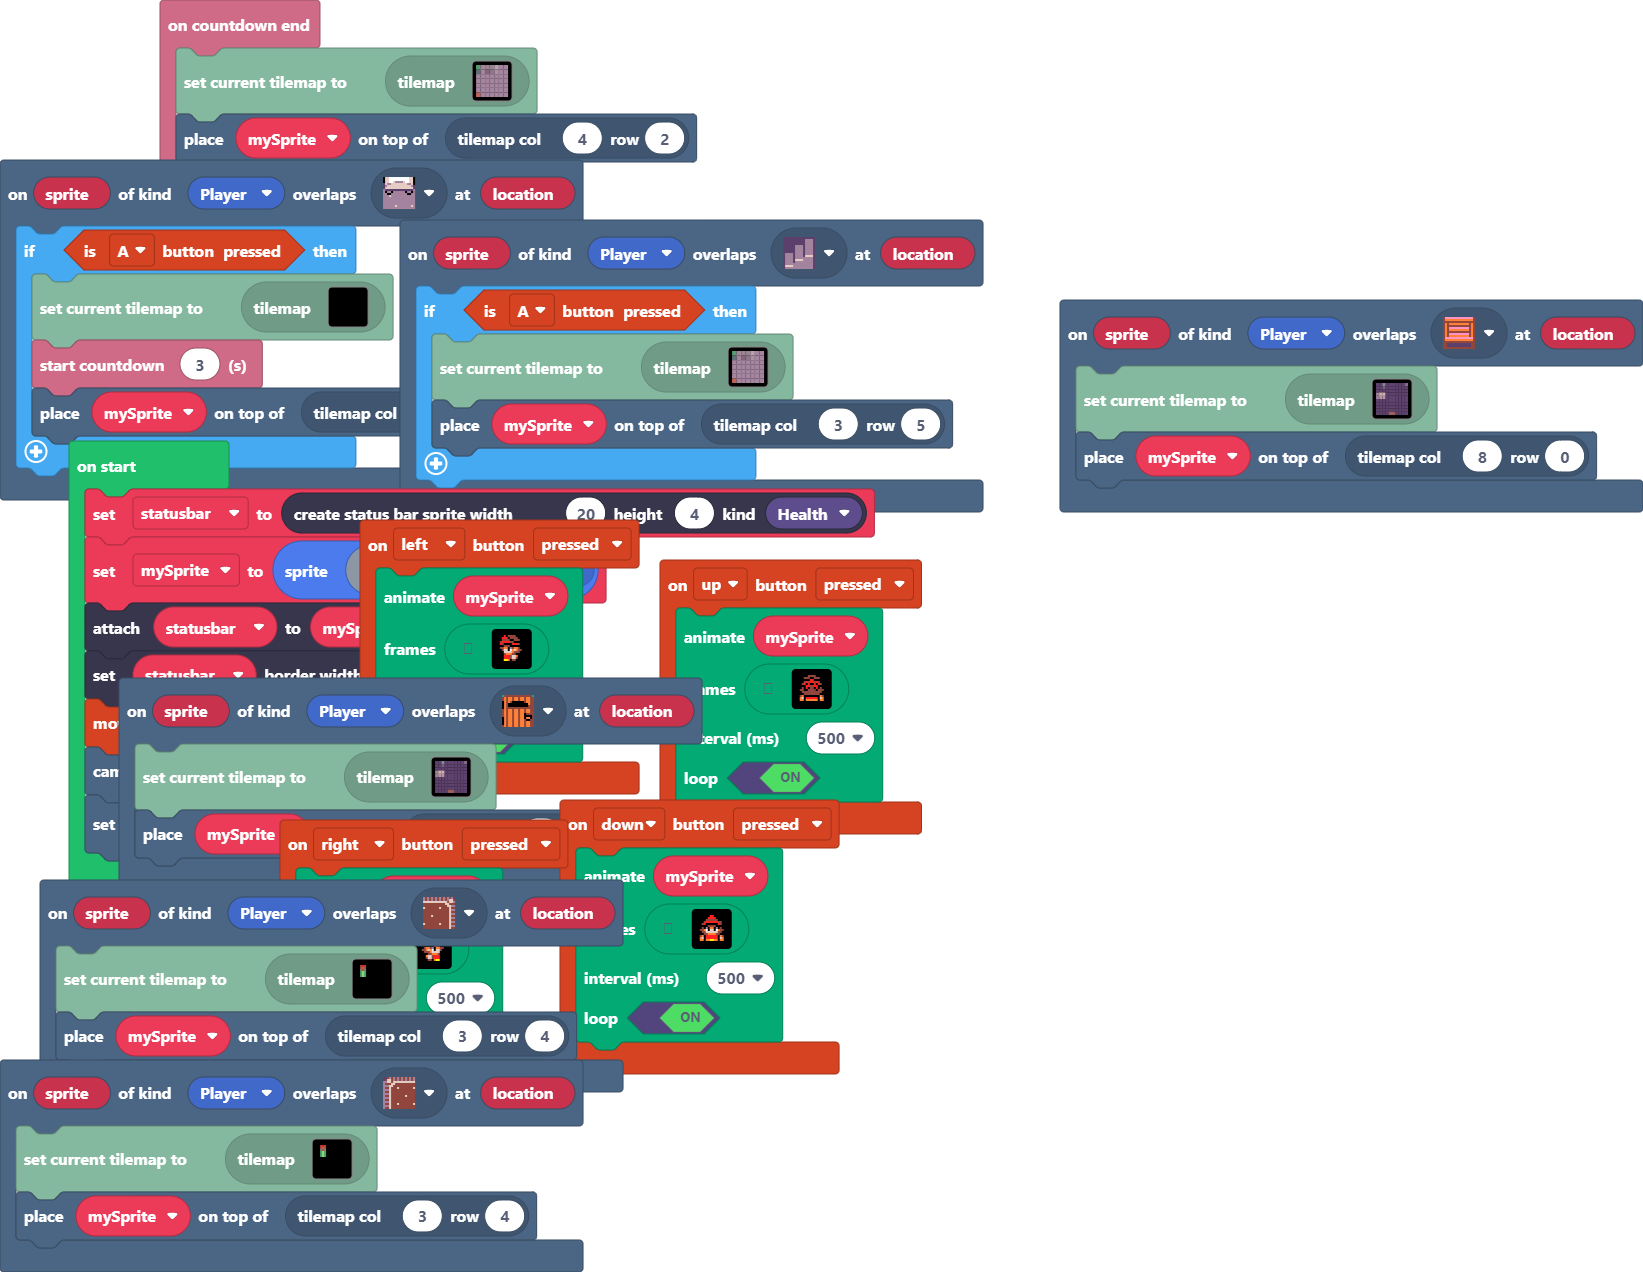
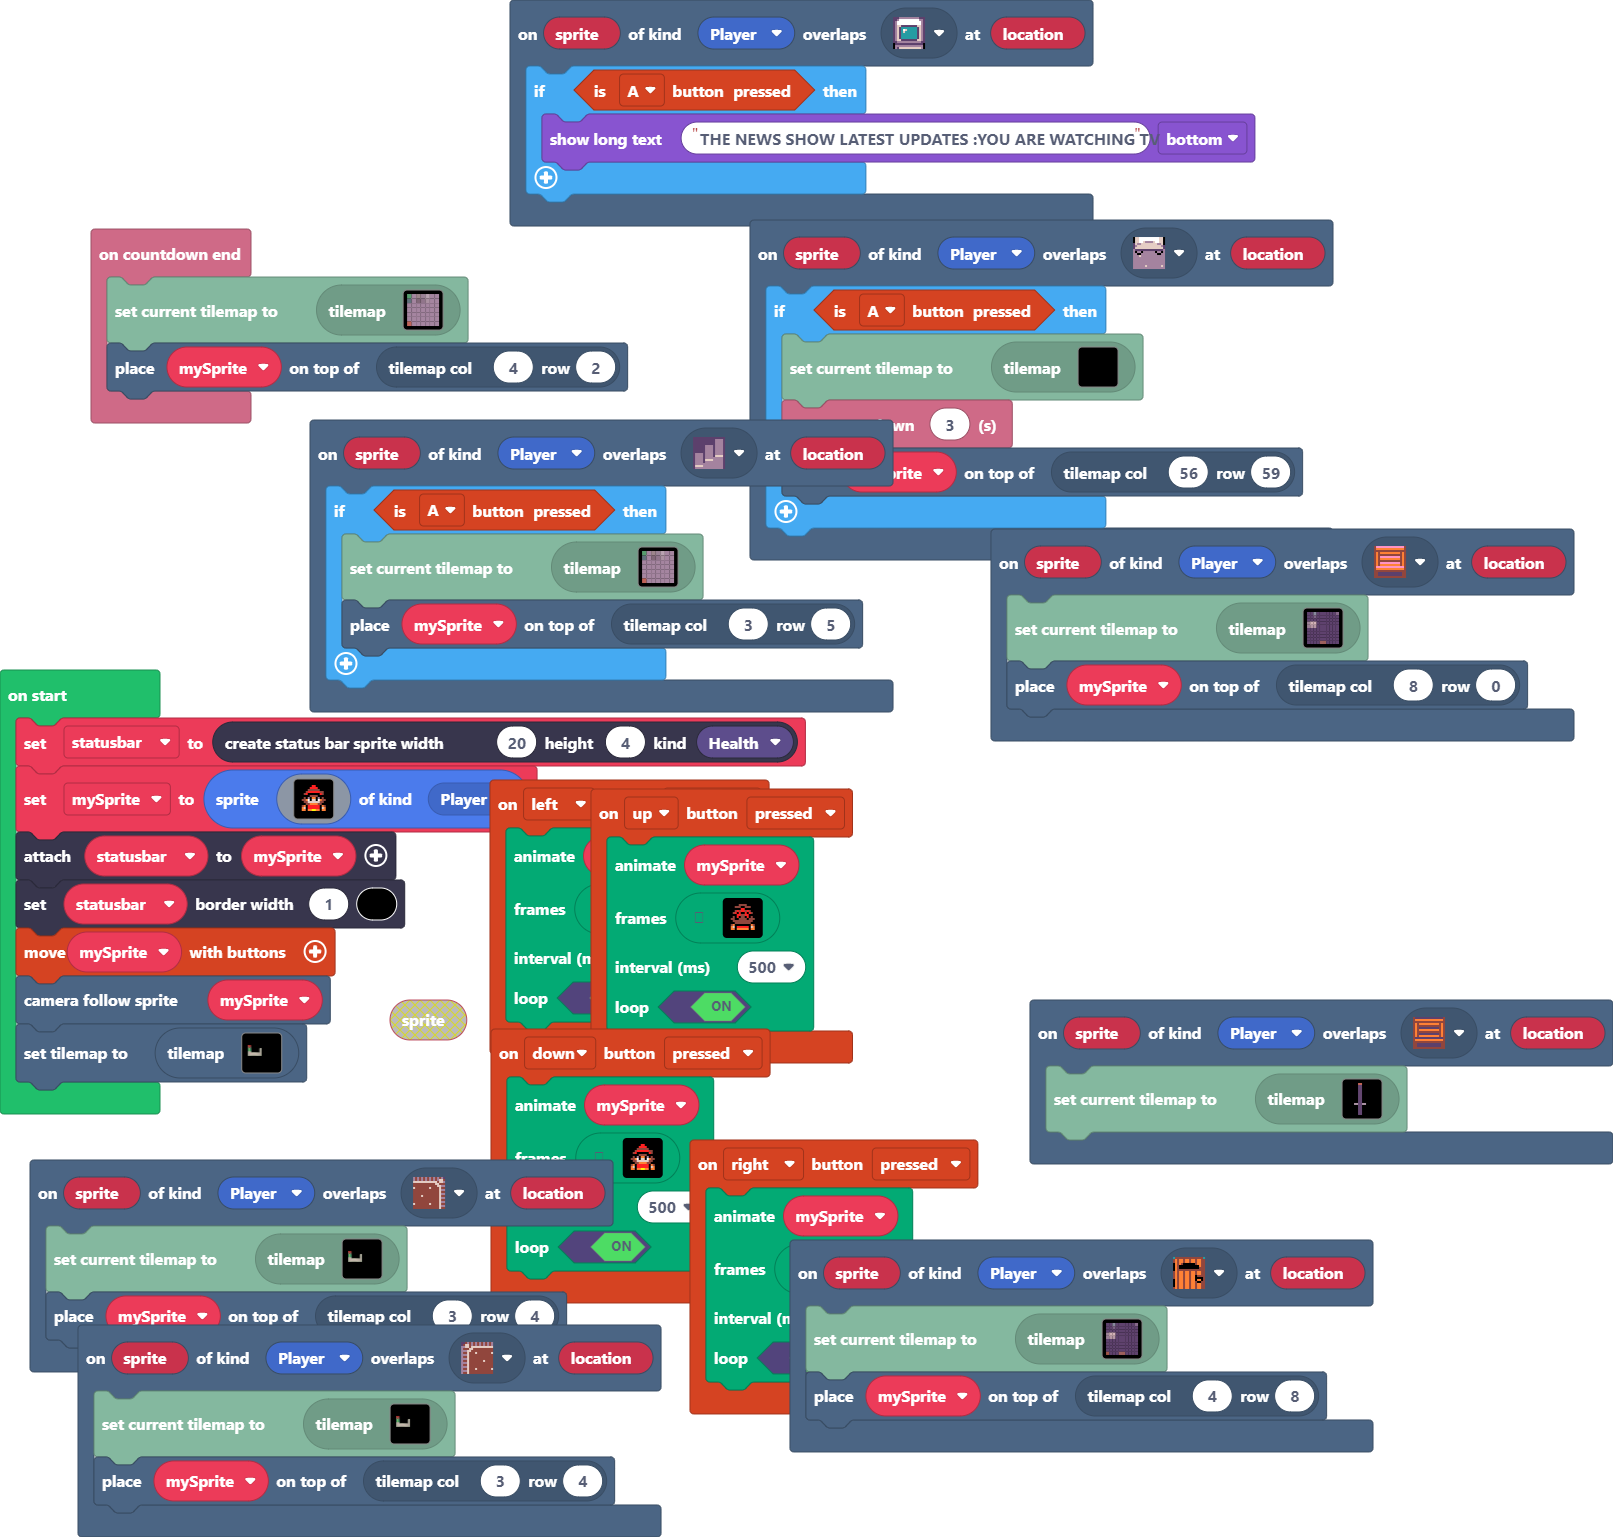
Update main.blocks, main.ts, tilemap.g.jres, tilemap.g.ts

diff --git a/tilemap.g.ts b/tilemap.g.ts
@@ -96,6 +96,24 @@ namespace myTiles {
     export const tile42 = image.ofBuffer(hex``);
     //% fixedInstance jres blockIdentity=images._tile
     export const tile46 = image.ofBuffer(hex``);
+    //% fixedInstance jres blockIdentity=images._tile
+    export const tile48 = image.ofBuffer(hex``);
+    //% fixedInstance jres blockIdentity=images._tile
+    export const tile49 = image.ofBuffer(hex``);
+    //% fixedInstance jres blockIdentity=images._tile
+    export const tile50 = image.ofBuffer(hex``);
+    //% fixedInstance jres blockIdentity=images._tile
+    export const tile51 = image.ofBuffer(hex``);
+    //% fixedInstance jres blockIdentity=images._tile
+    export const tile52 = image.ofBuffer(hex``);
+    //% fixedInstance jres blockIdentity=images._tile
+    export const tile53 = image.ofBuffer(hex``);
+    //% fixedInstance jres blockIdentity=images._tile
+    export const tile55 = image.ofBuffer(hex``);
+    //% fixedInstance jres blockIdentity=images._tile
+    export const tile54 = image.ofBuffer(hex``);
+    //% fixedInstance jres blockIdentity=images._tile
+    export const tile56 = image.ofBuffer(hex``);
 
     helpers._registerFactory("tilemap", function(name: string) {
         switch(helpers.stringTrim(name)) {
@@ -118,25 +136,6 @@ namespace myTiles {
 . . . . . . . . . . . . . . . . 
 . . . . . . . . . . . . . . . . 
 `, [myTiles.transparency16], TileScale.Sixteen);
-            case "level4":
[1 lines of base64/hex data omitted]
-. . . . . . . . . . . . . . . . 
-. . 2 2 2 . . . . . . . . . . . 
-. . 2 2 2 . . . . . . . . . . . 
-. . 2 . 2 . . . . . . . . . . . 
-. . 2 . 2 . . . . . . . . . . . 
-. . 2 . 2 . . . . . . . . . . . 
-. . 2 . 2 . . . . . . . . . . . 
-. . . . . . . . . . . . . . . . 
-. . . . . . . . . . . . . . . . 
-. . . . . . . . . . . . . . . . 
-. . . . . . . . . . . . . . . . 
-. . . . . . . . . . . . . . . . 
-. . . . . . . . . . . . . . . . 
-. . . . . . . . . . . . . . . . 
-. . . . . . . . . . . . . . . . 
-. . . . . . . . . . . . . . . . 
-`, [myTiles.transparency16,myTiles.tile1,myTiles.tile2,myTiles.tile3,myTiles.tile5,myTiles.tile7,myTiles.tile8,myTiles.tile13,myTiles.tile14,myTiles.tile15,myTiles.tile6,sprites.castle.tileGrass2], TileScale.Sixteen);
             case "level5":
             case "level5":return tiles.createTilemap(hex`1000100000000000000000000000000000000000000000000000000000000000000000000000000000000000000000000000000000000000000000000000000000000000000000000000000000000000000000000000000000000000000000000000000000000000000000000000000000000000000000000000000000000000000000000000000000000000000000000000000000000000000000000000000000000000000000000000000000000000000000000000000000000000000000000000000000000000000000000000000000000000000000000000000000000000000000000000000000000000000000000000000000000000000000000000000000000000`, img`
 . . . . . . . . . . . . . . . . 
@@ -156,19 +155,6 @@ namespace myTiles {
 . . . . . . . . . . . . . . . . 
 . . . . . . . . . . . . . . . . 
 `, [myTiles.transparency16], TileScale.Sixteen);
-            case "level3":
[1 lines of base64/hex data omitted]
-. . . . . . . . . . 
-. . . . . . . . . . 
-. . . . . . . . . . 
-. 2 2 . . . . . . . 
-. 2 2 . . . . . . . 
-. . . . . . . . . . 
-. . . . . . . . . . 
-. . . . . . . . . . 
-. . . . . . . . . . 
-. . . . . . . . . . 
-`, [myTiles.transparency16,myTiles.tile17,myTiles.tile20,myTiles.tile23,myTiles.tile21,myTiles.tile25,myTiles.tile26,myTiles.tile27,myTiles.tile30,myTiles.tile22,myTiles.tile24,myTiles.tile31,sprites.dungeon.stairLarge], TileScale.Sixteen);
             case "level7":
[1 lines of base64/hex data omitted]
 . . . . . . . . . . 
@@ -221,25 +207,76 @@ namespace myTiles {
 . . . . . . . 
 . . . . . . . 
 `, [myTiles.transparency16,myTiles.tile35,myTiles.tile37,myTiles.tile38,myTiles.tile39,myTiles.tile40,myTiles.tile41,myTiles.tile43,myTiles.tile42,myTiles.tile46,sprites.dungeon.stairLadder], TileScale.Sixteen);
+            case "level4":
[1 lines of base64/hex data omitted]
+..............................
+..222.........................
+..222.........................
+..2.2.........................
+..2.2.......2..2..............
+..2.2.......2..2..............
+..2.2.......2..2..............
+.2...22222222..2..............
+.2.............2..............
+.2.............2..............
+.2.............2..............
+.222222222222222..............
+..............................
+..............................
+..............................
+..............................
+`, [myTiles.transparency16,myTiles.tile1,myTiles.tile2,myTiles.tile3,myTiles.tile5,myTiles.tile7,myTiles.tile8,myTiles.tile13,myTiles.tile14,myTiles.tile15,myTiles.tile6,sprites.castle.tileGrass2,sprites.castle.tilePath4,sprites.castle.tilePath7,sprites.castle.tilePath5,sprites.castle.tilePath8,sprites.castle.tilePath6,sprites.castle.tilePath2,sprites.castle.tilePath9], TileScale.Sixteen);
             case "level1":
[2 lines of base64/hex data omitted]
 ..............................
 ..222.........................
 ..222.........................
 ..2.2.........................
-..2.2.........................
-..2.2.........................
-..2.2.........................
-..............................
-..............................
-..............................
-..............................
-..............................
+..2.2.......2..2..............
+..2.2.......2..2..............
+.22.22......2..2..............
+.2...22222222..2..............
+.2.............2..............
+.2.............2..............
+.2.............2..............
+.222222222222222..............
 ..............................
 ..............................
 ..............................
 ..............................
 `, [myTiles.transparency16,myTiles.tile1,myTiles.tile2,myTiles.tile3,myTiles.tile5,myTiles.tile7,myTiles.tile13,myTiles.tile14,myTiles.tile15,myTiles.tile16,sprites.castle.tileGrass2,myTiles.tile6,sprites.castle.tilePath9,sprites.castle.tilePath2,sprites.castle.tilePath5,sprites.castle.tilePath4,sprites.castle.tilePath6,sprites.castle.tilePath7,sprites.castle.tilePath8], TileScale.Sixteen);
+            case "level3":
[1 lines of base64/hex data omitted]
+. . . . . . . . . . 
+. . . . . . . . . . 
+. . . . . . . . . . 
+. 2 2 . . . . . . . 
+. 2 2 . . . . . . . 
+. . . . . . . . . . 
+. . . . . . . . . . 
+. . . . . . . . . . 
+. . . . . . . . . . 
+. . . . . . . . . . 
+`, [myTiles.transparency16,myTiles.tile17,myTiles.tile20,myTiles.tile23,myTiles.tile21,myTiles.tile25,myTiles.tile26,myTiles.tile27,myTiles.tile30,myTiles.tile22,myTiles.tile24,myTiles.tile31,sprites.dungeon.stairLarge,myTiles.tile56], TileScale.Sixteen);
+            case "level10":
+            case "level10":return tiles.createTilemap(hex`1000100000000000000003030000000000000000000000000000010200000000000000000000000000000102000000000000000000000000000001020000000000000000000000000000010200000000000000000000000000000102000000000000000000000000000001020000000000000000000000000000010200000000000000000000000000000102000000000000000000000000000001020000000000000000000000000404010204040000000000000000000000000102000000000000000000000000000001020000000000000000000000000000010200000000000000000000000000000102000000000000000000000000000001020000000000000000`, img`
+. . . . . . . . . . . . . . . . 
+. . . . . 2 . . 2 . . . . . . . 
+. . . . . 2 . . 2 . . . . . . . 
+. . . . . 2 . . 2 . . . . . . . 
+. . . . . 2 . . 2 . . . . . . . 
+. . . . . 2 . . 2 . . . . . . . 
+. . . . . 2 . . 2 . . . . . . . 
+. . . . . 2 . . 2 . . . . . . . 
+. . . . . 2 . . 2 . . . . . . . 
+2 2 2 2 2 2 . . 2 2 2 2 2 2 2 2 
+. . . . 2 2 . . 2 2 . . . . . . 
+2 2 2 2 2 2 . . 2 2 2 2 2 2 2 2 
+. . . . . 2 . . 2 . . . . . . . 
+. . . . . 2 . . 2 . . . . . . . 
+. . . . . 2 . . 2 . . . . . . . 
+. . . . . 2 . . 2 . . . . . . . 
+`, [myTiles.transparency16,sprites.dungeon.darkGroundWest,sprites.dungeon.darkGroundEast,sprites.dungeon.stairLadder,sprites.dungeon.floorLight3], TileScale.Sixteen);
         }
         return null;
     })
@@ -341,6 +378,24 @@ namespace myTiles {
             case "tile42":return tile42;
             case "myTile44":
             case "tile46":return tile46;
+            case "myTile46":
+            case "tile48":return tile48;
+            case "myTile47":
+            case "tile49":return tile49;
+            case "myTile48":
+            case "tile50":return tile50;
+            case "myTile49":
+            case "tile51":return tile51;
+            case "myTile50":
+            case "tile52":return tile52;
+            case "myTile51":
+            case "tile53":return tile53;
+            case "myTile53":
+            case "tile55":return tile55;
+            case "myTile52":
+            case "tile54":return tile54;
+            case "myTile54":
+            case "tile56":return tile56;
         }
         return null;
     })

diff --git a/main.ts b/main.ts
@@ -78,6 +78,11 @@ scene.onOverlapTile(SpriteKind.Player, sprites.dungeon.stairLadder, function (sp
     tiles.loadMap(tiles.createMap(tilemap`level7`))
     tiles.placeOnTile(mySprite, tiles.getTileLocation(8, 0))
 })
+scene.onOverlapTile(SpriteKind.Player, assets.tile`myTile22`, function (sprite, location) {
+    if (controller.A.isPressed()) {
+        game.showLongText("THE NEWS SHOW LATEST UPDATES :YOU ARE WATCHING TV", DialogLayout.Bottom)
+    }
+})
 controller.left.onEvent(ControllerButtonEvent.Pressed, function () {
     animation.runImageAnimation(
     mySprite,
@@ -157,6 +162,9 @@ controller.left.onEvent(ControllerButtonEvent.Pressed, function () {
 info.onCountdownEnd(function () {
     tiles.loadMap(tiles.createMap(tilemap`level9`))
     tiles.placeOnTile(mySprite, tiles.getTileLocation(4, 2))
+})
+scene.onOverlapTile(SpriteKind.Player, assets.tile`myTile54`, function (sprite, location) {
+    tiles.loadMap(tiles.createMap(tilemap`level10`))
 })
 scene.onOverlapTile(SpriteKind.Player, assets.tile`myTile20`, function (sprite, location) {
     tiles.loadMap(tiles.createMap(tilemap`level4`))
